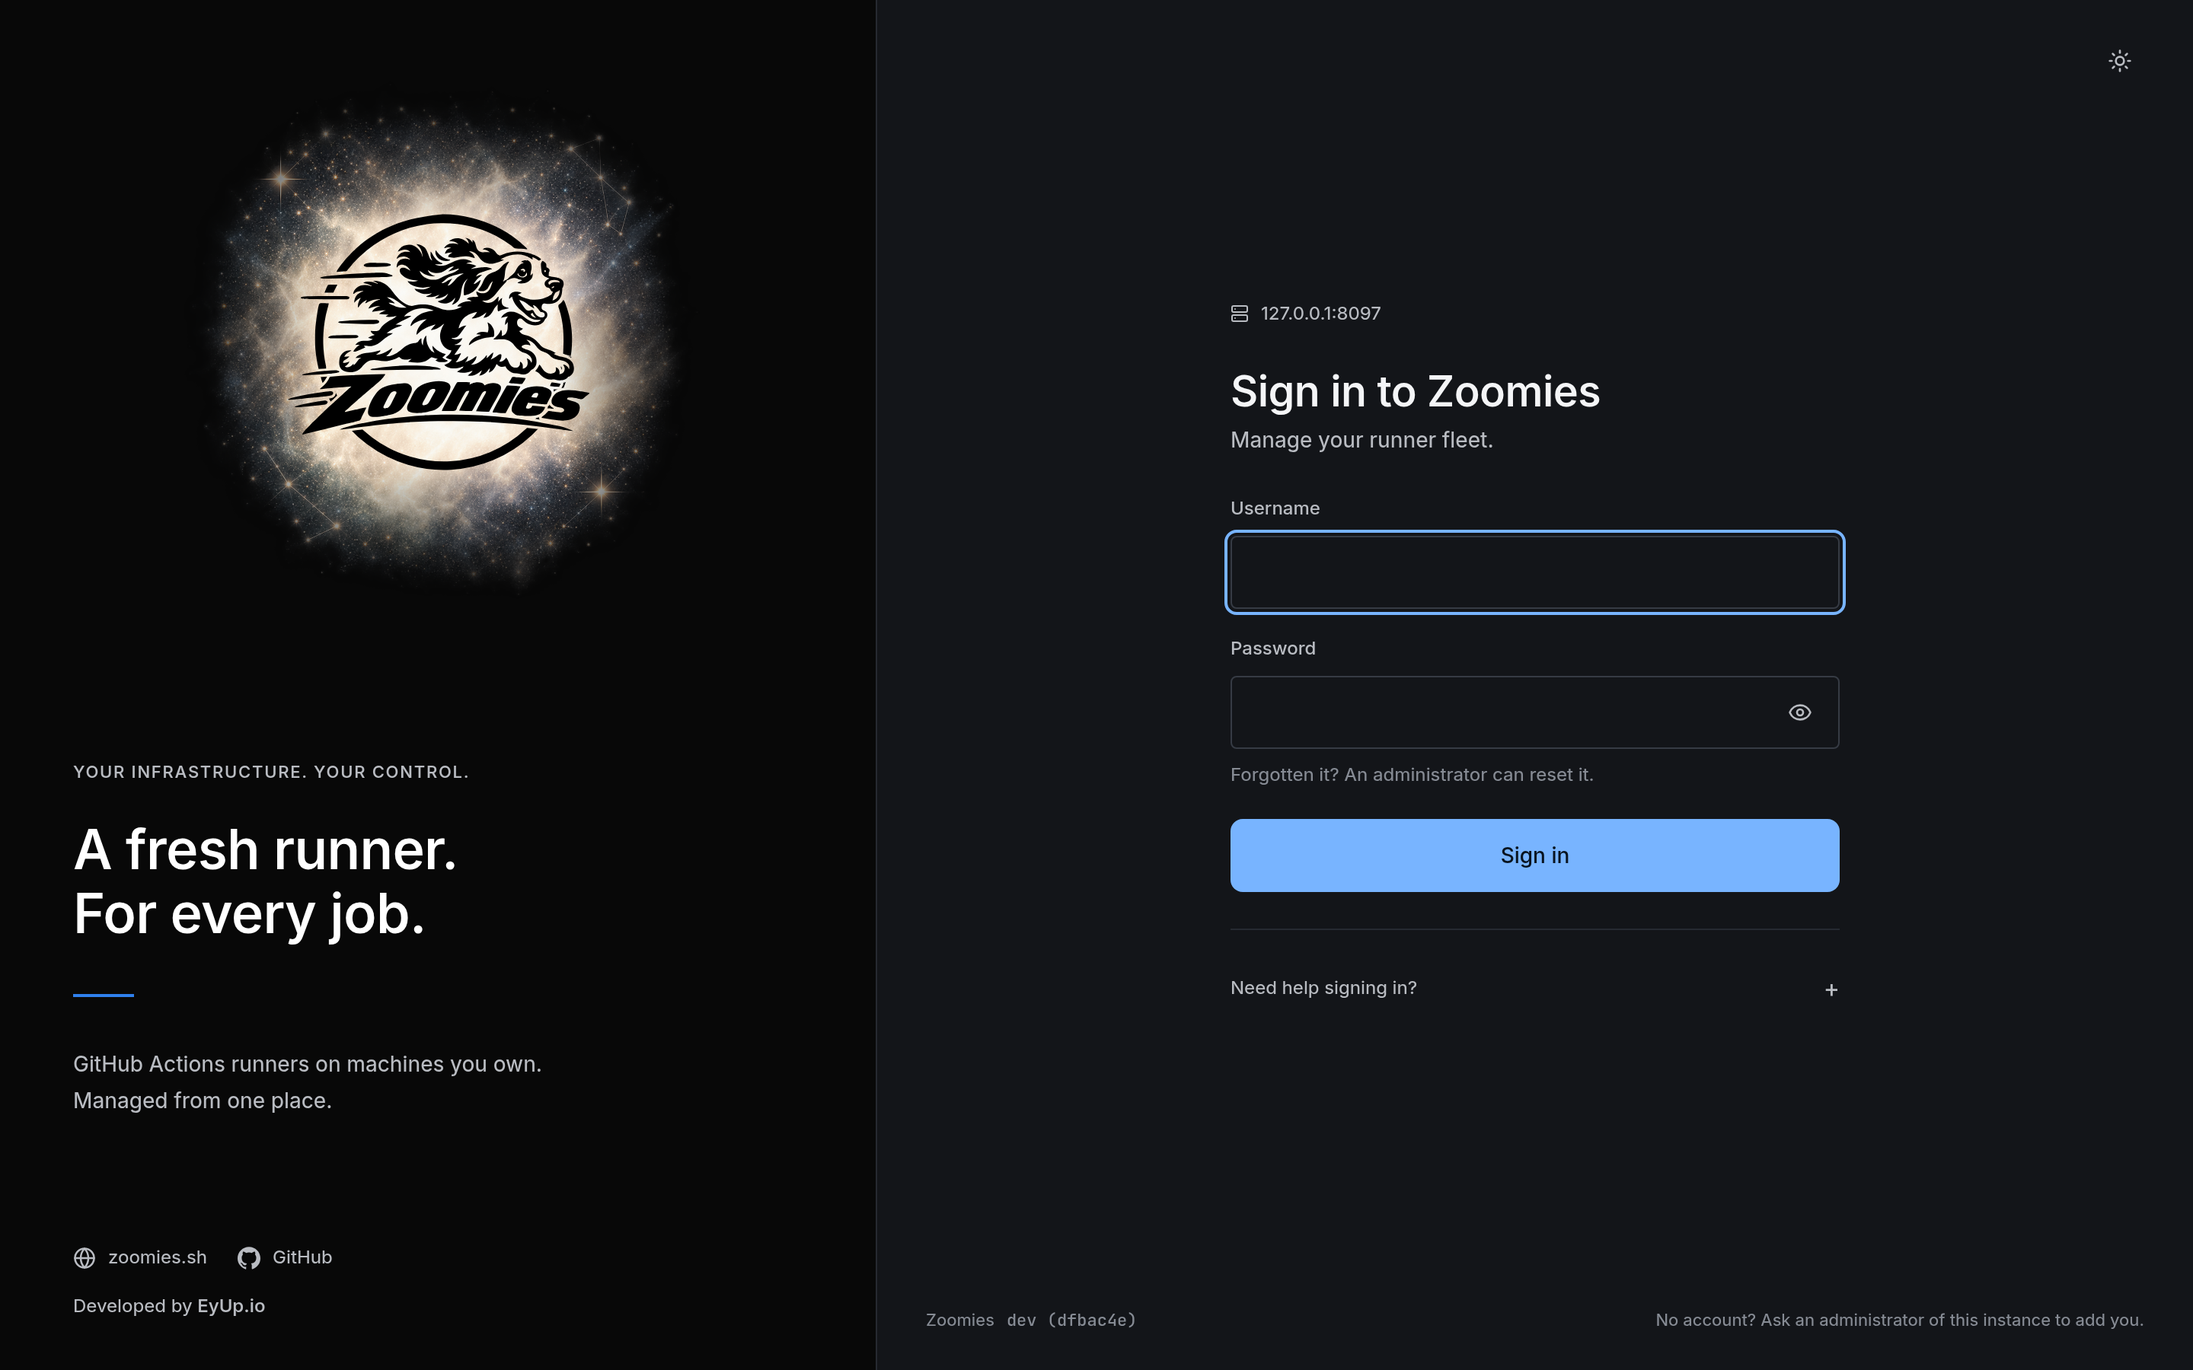
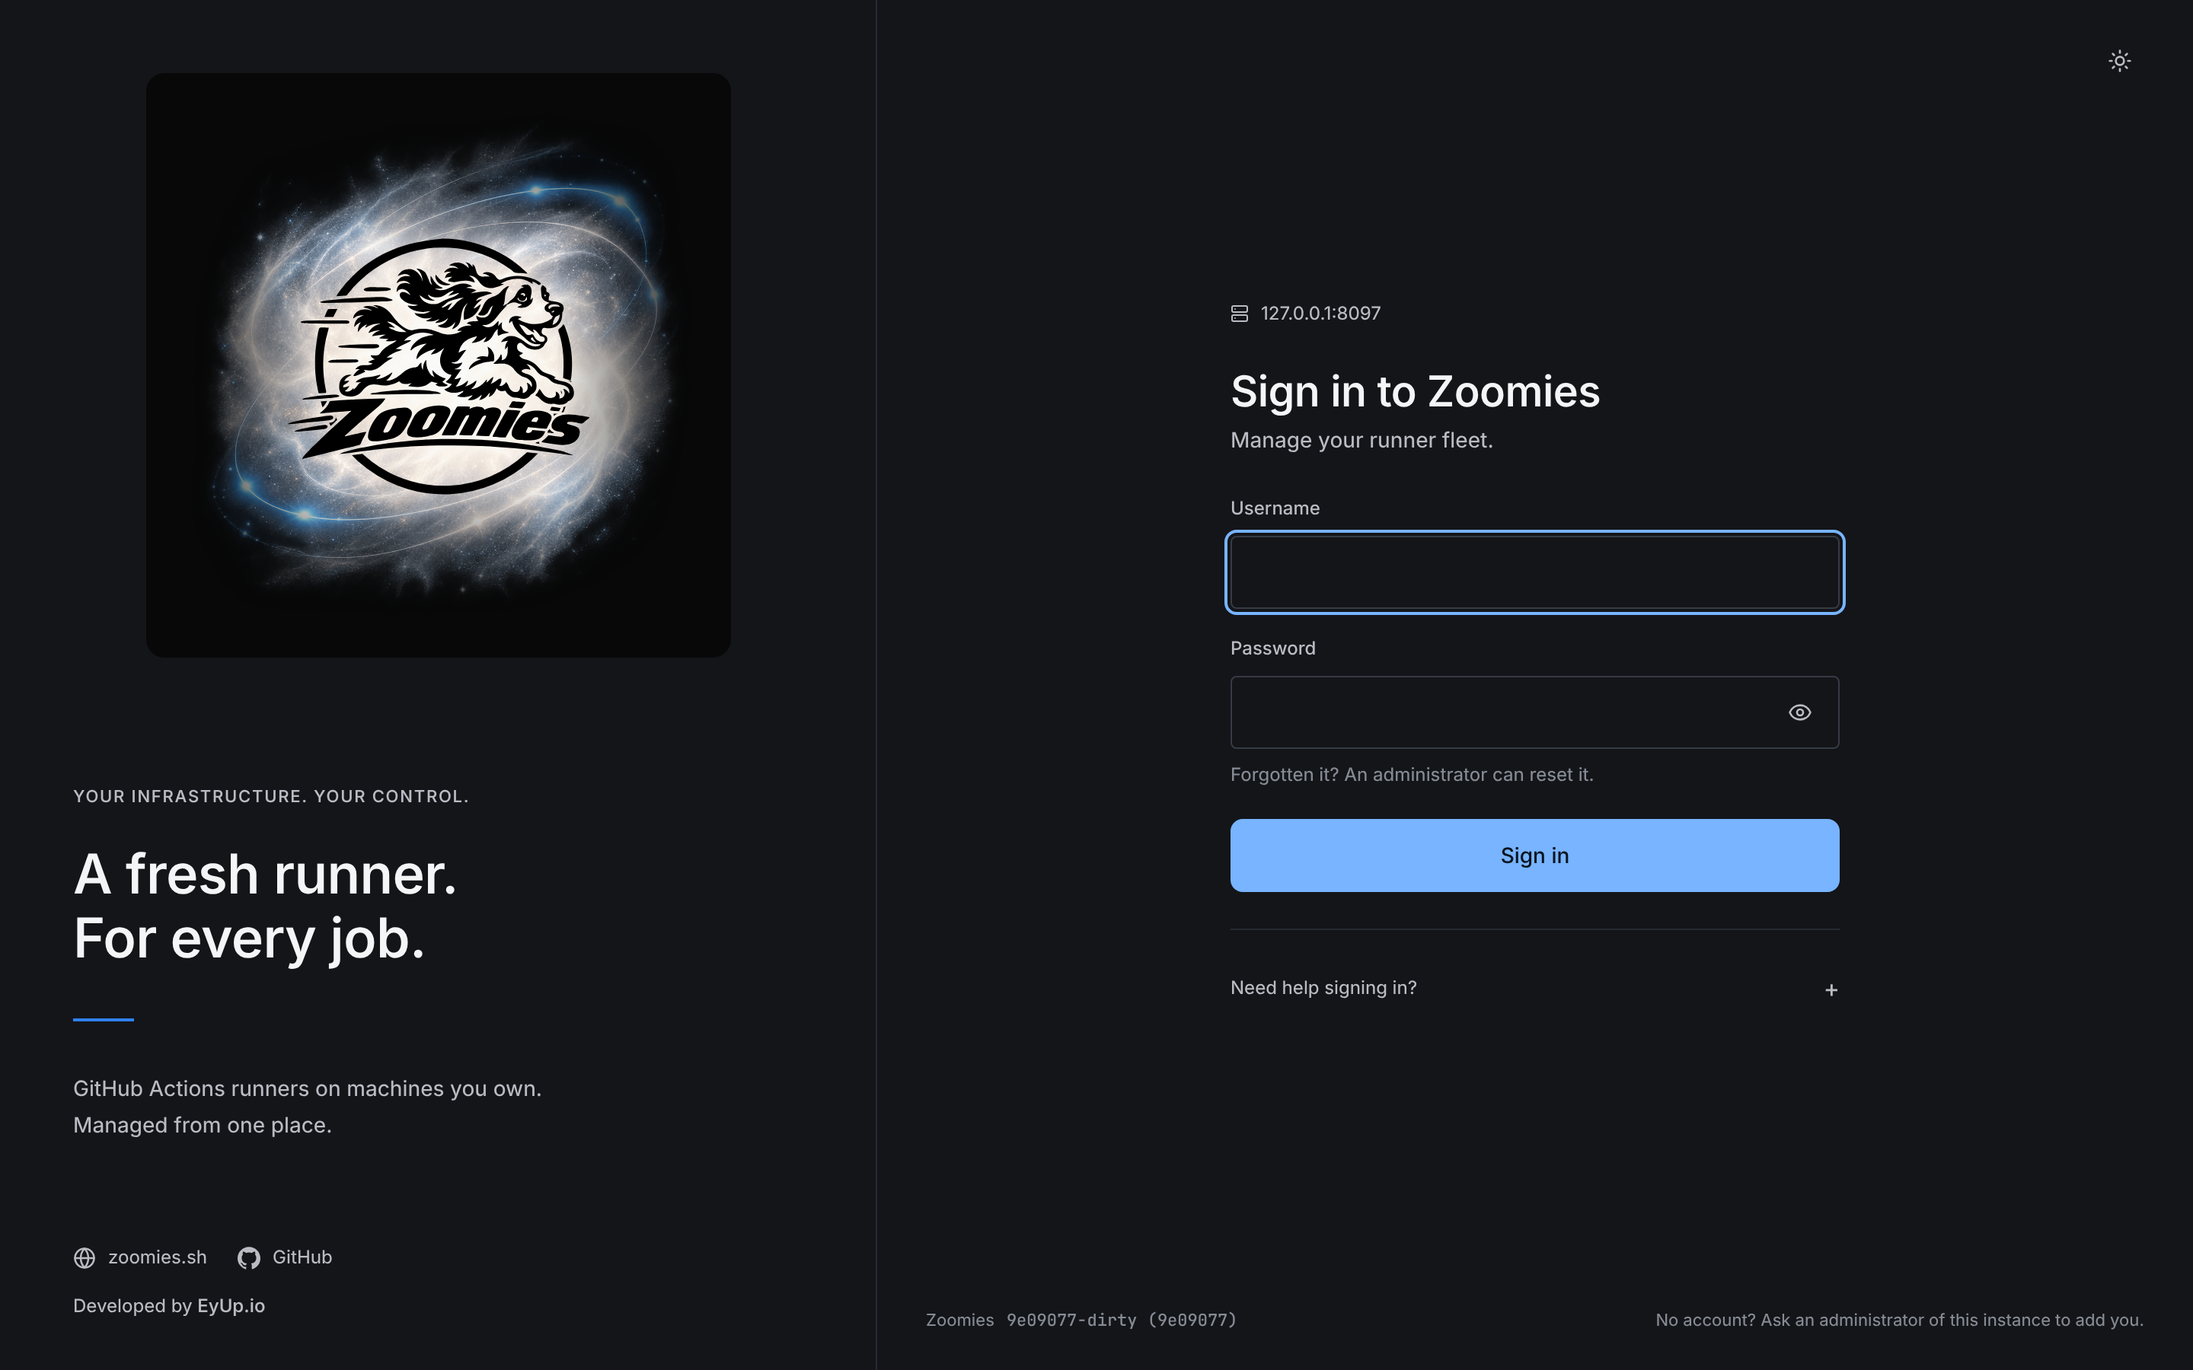
Put the sign-in lockup on a rounded black stage instead of a black column
The sign-in page painted its whole left column Zoomies Black, with the
pitch in fixed white on it. The backdrop is a glow drawn for a dark ground,
so the lockup keeps a black ground, but as a stage: a rounded square of
Zoomies Black around the lockup, the same in both themes, as wide as the
lockup and no wider, the way the Appearance preview already draws it. The
column around it is a surface like the form's, and its words follow the
theme. On a phone the stage starts below the appearance toggle, which
would otherwise sit half on the black and half on the page.

The Playwright test that held the column to Zoomies Black now holds the
stage to it and the column and pitch to the theme; the brand reference,
the UI guidelines, the panel tokens' comment and the sign-in screenshots
say the same.

Claude-Session: https://claude.ai/code/session_01PQdnVq3HWhXCMvrB2PMKL3

Changed region(s): [[0.0938, 0.0933, 0.3125, 0.4356], [0.0312, 0.56, 0.2188, 0.7467], [0.0312, 0.7778, 0.25, 0.84]]

diff --git a/web/src/routes/Login.svelte b/web/src/routes/Login.svelte
@@ -14,9 +14,10 @@
   at all. Those are three different problems and only one of them is the
   operator's fault.
 
-  The original black logo keeps the backdrop chosen in Appearance in both themes.
-  On a phone the same full logo stays on a black section above the form;
-  only the marketing copy is removed.
+  The original black logo keeps the backdrop chosen in Appearance in both themes,
+  on a rounded Zoomies Black stage of its own; the column around it follows the
+  theme like the form. On a phone the same full logo and its stage stay above
+  the form; only the marketing copy is removed.
 -->
 <script lang="ts">
   import { tick, untrack } from 'svelte';
@@ -311,7 +312,7 @@
 <div class="signin" class:embedded>
   {#if !embedded}
     <div class="mark">
-      <span class="lockup"><Logo variant="lockup" size={71} label="Zoomies" /></span>
+      <div class="stage"><Logo variant="lockup" size={71} label="Zoomies" /></div>
     </div>
   {/if}
 
@@ -598,19 +599,27 @@
   }
   .mark,
   .about {
-    background: var(--z-panel-bg);
-    color: var(--z-panel-text);
     border-right: var(--z-border-width) solid var(--z-border);
   }
   .mark {
     grid-area: mark;
+    display: flex;
+    justify-content: center;
     padding: var(--z-space-12) var(--panel-pad-x) 0;
   }
-  .lockup {
+  /* The backdrop is a glow drawn for a dark ground, so the lockup sits on a
+     rounded square of Zoomies Black in both themes: a stage, not a column.
+     The stage is as wide as the lockup wants to be and no wider, and gives
+     way before the lockup does on a narrow screen. */
+  .stage {
     display: flex;
-    width: 100%;
-    max-width: 100%;
     justify-content: center;
+    box-sizing: border-box;
+    width: fit-content;
+    max-width: 100%;
+    padding: var(--z-space-4);
+    border-radius: var(--z-radius-lg);
+    background: var(--z-panel-bg);
   }
   .about {
     grid-area: about;
@@ -619,6 +628,7 @@
     justify-content: space-between;
     gap: var(--z-space-12);
     padding: var(--z-space-16) var(--panel-pad-x) var(--z-space-8);
+    color: var(--z-text);
   }
   .pitch {
     margin-block: auto;
@@ -630,7 +640,7 @@
     font-weight: var(--z-weight-semibold);
     letter-spacing: var(--z-tracking-wider);
     text-transform: uppercase;
-    color: var(--z-panel-text-muted);
+    color: var(--z-text-muted);
   }
   .tagline {
     margin: 0;
@@ -649,14 +659,14 @@
     margin: 0;
     font-size: var(--z-text-base);
     line-height: var(--z-leading-lg);
-    color: var(--z-panel-text-muted);
+    color: var(--z-text-muted);
   }
   .links {
     display: flex;
     flex-wrap: wrap;
     gap: var(--z-space-3) var(--z-space-5);
     font-size: var(--z-text-xs);
-    color: var(--z-panel-text-muted);
+    color: var(--z-text-muted);
   }
   .links a {
     display: inline-flex;
@@ -882,12 +892,11 @@
       display: flex;
       flex-direction: column;
     }
+    /* The stage starts below the appearance toggle in the corner, which
+       would otherwise sit half on the black and half on the page. */
     .mark {
-      display: flex;
-      justify-content: center;
-      padding: calc(var(--z-space-10) + var(--z-safe-top)) var(--z-space-6) var(--z-space-6);
+      padding: calc(var(--z-space-16) + var(--z-safe-top)) var(--z-space-6) var(--z-space-6);
       border: 0;
-      background: var(--z-panel-bg);
     }
     .form-side {
       padding: var(--z-space-6) max(var(--z-space-6), env(safe-area-inset-right)) var(--z-space-6)
@@ -898,13 +907,11 @@
     }
     .about {
       border: 0;
-      background: none;
       padding: var(--z-space-6);
       color: var(--z-text-muted);
       margin-top: auto;
     }
     .links {
-      color: var(--z-text-muted);
       justify-content: center;
     }
     .credit {
@@ -918,13 +925,6 @@
     .appearance {
       right: var(--z-space-6);
       top: calc(var(--z-space-4) + var(--z-safe-top));
-    }
-    .appearance :global(.icon-btn) {
-      color: var(--z-panel-text-muted);
-    }
-    .appearance :global(.icon-btn:hover) {
-      background: var(--z-panel-raised);
-      color: var(--z-panel-text);
     }
     .no-account {
       display: none;

diff --git a/web/tests/first-run.spec.ts b/web/tests/first-run.spec.ts
@@ -495,30 +495,48 @@ test('the sign-in form comes before the brand panel for a keyboard', async ({ pa
   await expect(page.locator('input[name="password"]')).toBeFocused();
 });
 
-test('the brand panel is Zoomies Black in both themes', async ({ page }) => {
-  // The panel is the brand's own ground, not a surface, so the theme does not
-  // reach it -- and neither may it reach the text on it. A panel that followed
-  // the light theme's muted grey would be 3:1 on black; one that followed the
-  // surface colour would put white text on white.
-  const read = () =>
-    page.locator('.tagline').evaluate((tagline) => {
-      let ground: Element | null = tagline;
-      while (ground && getComputedStyle(ground).backgroundColor === 'rgba(0, 0, 0, 0)') {
-        ground = ground.parentElement;
+test('the lockup sits on a rounded Zoomies Black stage in both themes', async ({ page }) => {
+  // The backdrop is a glow drawn for a dark ground, so the lockup's stage is
+  // the brand's own black whichever theme is on. The stage is a rounded square
+  // around the lockup and nothing more: the column it sits in, and the pitch
+  // under it, are a surface like the form's, so their text follows the theme
+  // rather than being fixed white (which the light theme would put on white).
+  const ground = (selector: string) =>
+    page.locator(selector).evaluate((start) => {
+      let el: Element | null = start;
+      while (el && getComputedStyle(el).backgroundColor === 'rgba(0, 0, 0, 0)') {
+        el = el.parentElement;
       }
-      return {
-        text: getComputedStyle(tagline).color,
-        ground: ground ? getComputedStyle(ground).backgroundColor : '',
-      };
+      return el ? getComputedStyle(el).backgroundColor : '';
     });
-  for (const colorScheme of ['light', 'dark'] as const) {
+  const read = async () => ({
+    stage: await page.locator('.stage').evaluate((stage) => ({
+      ground: getComputedStyle(stage).backgroundColor,
+      radius: getComputedStyle(stage).borderTopLeftRadius,
+      wraps: stage.querySelector('img') !== null,
+    })),
+    column: await ground('.mark'),
+    pitch: await ground('.tagline'),
+    form: await ground('.form-column'),
+    text: await page.locator('.tagline').evaluate((el) => getComputedStyle(el).color),
+  });
+  const inTheme = async (colorScheme: 'light' | 'dark') => {
     await page.emulateMedia({ colorScheme });
     await page.goto('/login');
-    expect(await read(), `the panel in the ${colorScheme} theme`).toEqual({
-      text: 'rgb(255, 255, 255)',
+    const got = await read();
+    expect(got.stage, `the stage in the ${colorScheme} theme`).toEqual({
       ground: 'rgb(8, 8, 8)',
+      radius: '12px',
+      wraps: true,
     });
-  }
+    expect(got.column, `the column in the ${colorScheme} theme`).not.toBe('rgb(8, 8, 8)');
+    expect(got.pitch, `the pitch's ground in the ${colorScheme} theme`).toBe(got.form);
+    return got;
+  };
+  const light = await inTheme('light');
+  const dark = await inTheme('dark');
+  expect(light.text, 'the pitch follows the theme').not.toBe(dark.text);
+  expect(light.column, 'the column follows the theme').not.toBe(dark.column);
   // The original black artwork stays readable on the selected pale backdrop.
   await expect(page.getByRole('img', { name: 'Zoomies' })).toBeVisible();
   await expect(page.getByRole('img', { name: 'Zoomies', exact: true })).toHaveAttribute(

diff --git a/web/src/lib/styles/tokens.css b/web/src/lib/styles/tokens.css
@@ -388,10 +388,11 @@
      drawn on a near-black chip. */
   --z-mark-chip: var(--z-brand-black);
 
-  /* The sign-in page's brand panel, which is Zoomies Black in both themes.
-     What is drawn on it therefore cannot follow the theme -- the light
-     theme's muted grey on black is barely 3:1 -- so these are the dark
-     theme's values, fixed, and only that panel reads them. */
+  /* A panel: the rounded stage the sign-in page's lockup sits on, which is
+     Zoomies Black in both themes. What is drawn on it therefore cannot
+     follow the theme -- the light theme's muted grey on black is barely
+     3:1 -- so these are the dark theme's values, fixed, and only a panel
+     reads them. */
   --z-panel-bg: var(--z-brand-black);
   --z-panel-text: var(--z-brand-white);
   --z-panel-text-muted: var(--z-brand-cool-grey);

diff --git a/docs/brand.md b/docs/brand.md
@@ -30,7 +30,7 @@ logo stays monochrome, always.
 
 | Name | Value | Where it is used |
 | --- | --- | --- |
-| Zoomies Black | `#080808` | Dark backgrounds and the sign-in brand panel |
+| Zoomies Black | `#080808` | Dark backgrounds and the sign-in page's logo stage |
 | White | `#FFFFFF` | Surfaces in the light theme, and the knockout mark |
 | Cool Grey | `#B9BCC2` | Secondary text in the dark theme |
 | Mid Grey | `#666A73` | Secondary text in the light theme |
@@ -152,22 +152,22 @@ container, so a phone does not overflow. The artwork carries its own clear
 space, so the canvas is deliberately larger than the dog inside it; that padding
 is part of the supplied file and is not cropped away.
 
-![The sign-in page: a Zoomies Black panel on the left holding the lockup, a short introduction and links to zoomies.sh, GitHub and EyUp.io; the form on the right, under the address of the instance being signed in to](screenshots/sign-in-dark.webp#only-dark){ .zoomies-shot }
-![The sign-in page: a Zoomies Black panel on the left holding the lockup, a short introduction and links to zoomies.sh, GitHub and EyUp.io; the form on the right, under the address of the instance being signed in to](screenshots/sign-in-light.webp#only-light){ .zoomies-shot }
+![The sign-in page: the lockup on a rounded Zoomies Black stage at the top left, a short introduction and links to zoomies.sh, GitHub and EyUp.io under it; the form on the right, under the address of the instance being signed in to](screenshots/sign-in-dark.webp#only-dark){ .zoomies-shot }
+![The sign-in page: the lockup on a rounded Zoomies Black stage at the top left, a short introduction and links to zoomies.sh, GitHub and EyUp.io under it; the form on the right, under the address of the instance being signed in to](screenshots/sign-in-light.webp#only-light){ .zoomies-shot }
 
-The sign-in page is the one screen where the brand gets a panel rather than a
+The sign-in page is the one screen where the brand gets a column rather than a
 shape. It is the page met by people who did not install the controller
-(somebody sent its address by the colleague who did) so the left of it is
-Zoomies Black in both themes and says what they are looking at: the lockup, a
-short introduction and links to
+(somebody sent its address by the colleague who did) so the left of it says
+what they are looking at: the lockup, a short introduction and links to
 [zoomies.sh](https://zoomies.sh), the source on GitHub and
-[EyUp.io](https://eyup.io). The original black artwork uses the backdrop selected in Appearance. The
-brand panel stays dark, while the form follows the selected theme. The panel
-uses fixed `--z-panel-*` text colours to remain readable in either theme.
+[EyUp.io](https://eyup.io). The original black artwork uses the backdrop
+selected in Appearance, and sits on a stage: a rounded square of Zoomies Black
+around the lockup, the same in both themes, because the backdrop is a glow
+drawn for a dark ground. The stage is as wide as the lockup and no wider; the
+column around it, and the words on it, follow the selected theme like the form.
 
-On a phone the panel comes apart: the full lockup and its selected backdrop stay above the form,
-scaling together to fit narrow screens, and the links move below the form in the theme's own
-colours. The first-run screen stays a card. Only the person who has just
+On a phone the column comes apart: the full lockup, its selected backdrop and its stage stay
+above the form, scaling together to fit narrow screens, and the links move below the form. The first-run screen stays a card. Only the person who has just
 installed the controller ever sees it, and they already know what it is.
 
 The running spaniel emblem carries Settings → About at 128px, its minimum size;

diff --git a/docs/ui-guidelines.md b/docs/ui-guidelines.md
@@ -290,12 +290,13 @@ black chip rather than inverting it -- one asset, correct in both themes,
 legible at 24px. See [brand.md](brand.md), which lists every place the signed-in
 product carries the mark, the name or the descriptor.
 
-#### The sign-in panel
+#### The panel
 
-The sign-in page's brand panel is Zoomies Black in both themes, so what is
-drawn on it cannot follow the theme: the light theme's muted grey is 3.2:1 on
-black. These are declared once, never overridden per theme, and read by that
-panel alone. Measured on `#080808`:
+A panel is a ground that is Zoomies Black in both themes (the sign-in page's
+logo stage, the Appearance preview's), so what is drawn on it cannot follow
+the theme: the light theme's muted grey is 3.2:1 on black. These are declared
+once, never overridden per theme, and read on a panel alone. Measured on
+`#080808`:
 
 | Token | Value | Use | Contrast |
 | --- | --- | --- | --- |
@@ -1021,7 +1022,7 @@ with its browser chrome is often less) rather than grow a scrollbar on the one
 page that should fit without one. It is the only height query in the product,
 and it hides nothing a person needs to sign in.
 
-On a phone that page's brand panel becomes a band drawn to the very top of the
+On a phone that page's brand column becomes a band drawn to the very top of the
 screen, so it pads by `--z-safe-top`, the status bar's height, which is zero
 anywhere but an installed web app.
 

diff --git a/docs/ui.md b/docs/ui.md
@@ -36,8 +36,8 @@ attempts, or a controller that cannot be reached) and caps lock is called out
 before it costs an attempt. On a phone the logo becomes a band above the form
 and the links move below it.
 
-![The sign-in page: a Zoomies Black panel on the left holding the lockup, a short introduction and links to zoomies.sh, GitHub and EyUp.io; the form on the right, under the address of the instance being signed in to](screenshots/sign-in-dark.webp#only-dark){ .zoomies-shot }
-![The sign-in page: a Zoomies Black panel on the left holding the lockup, a short introduction and links to zoomies.sh, GitHub and EyUp.io; the form on the right, under the address of the instance being signed in to](screenshots/sign-in-light.webp#only-light){ .zoomies-shot }
+![The sign-in page: the lockup on a rounded Zoomies Black stage at the top left, a short introduction and links to zoomies.sh, GitHub and EyUp.io under it; the form on the right, under the address of the instance being signed in to](screenshots/sign-in-dark.webp#only-dark){ .zoomies-shot }
+![The sign-in page: the lockup on a rounded Zoomies Black stage at the top left, a short introduction and links to zoomies.sh, GitHub and EyUp.io under it; the form on the right, under the address of the instance being signed in to](screenshots/sign-in-light.webp#only-light){ .zoomies-shot }
 
 ## Overview
 
